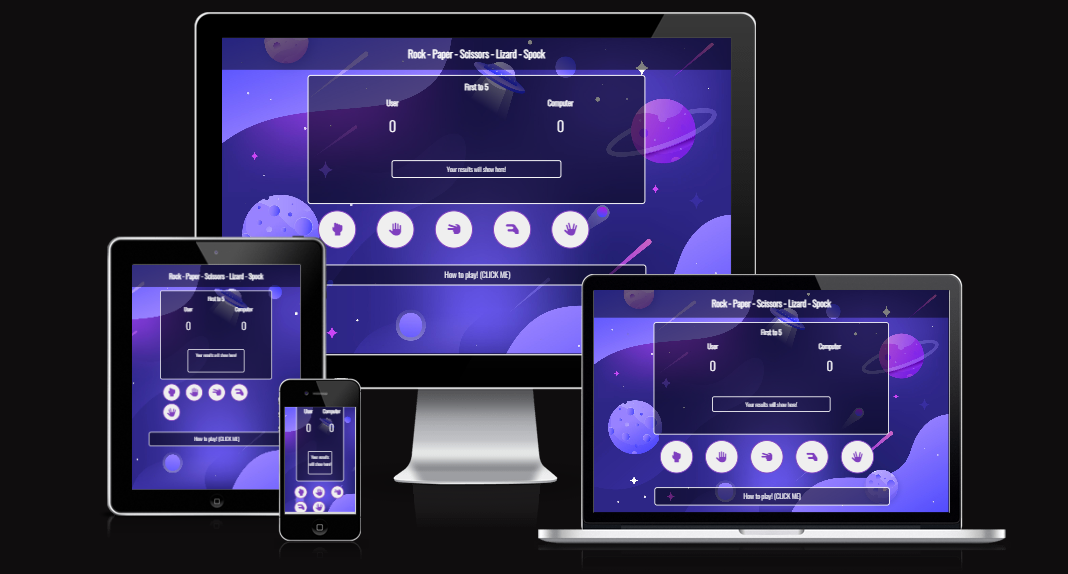
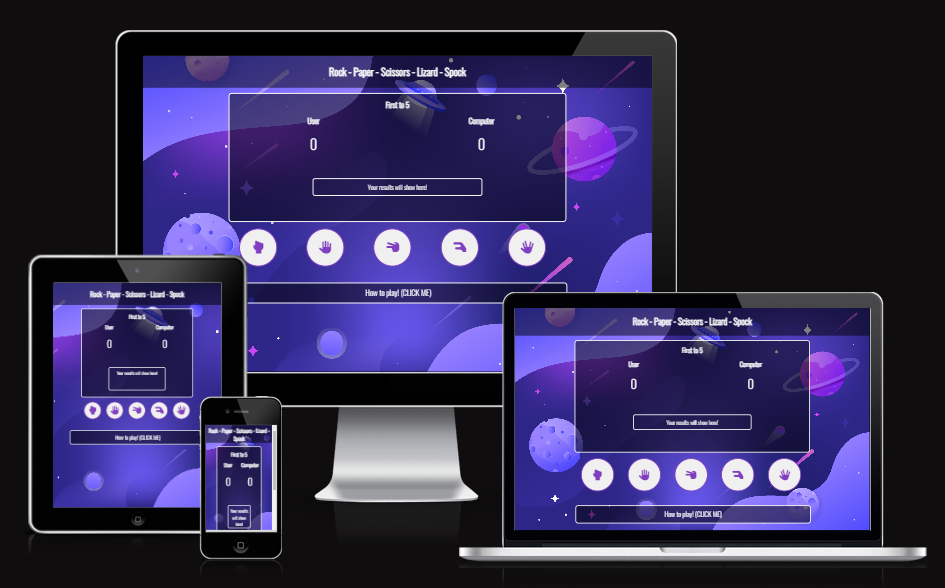
[ADD] Grid display to buttons so they are more responsive

diff --git a/assests/css/style.css b/assests/css/style.css
@@ -102,6 +102,8 @@ body{
     margin-right: auto;
     margin-top: 10px;
     margin-bottom: 50px;
+    display: grid;
+    grid-template-columns: repeat(auto-fit, minmax(50px, 1fr));
    
 }
 

diff --git a/README.md b/README.md
@@ -1,4 +1,4 @@
-# Rock - Paper - Scissors - Lizard - Spock
+Rock - Paper - Scissors - Lizard - Spock
 
 Welcome to Rock - Paper - Scissors - Lizard - Spock! The rock paper scissors game with a twist, test your luck and try to beat the computer in a game of first to 5! Whats your next move?!
 
